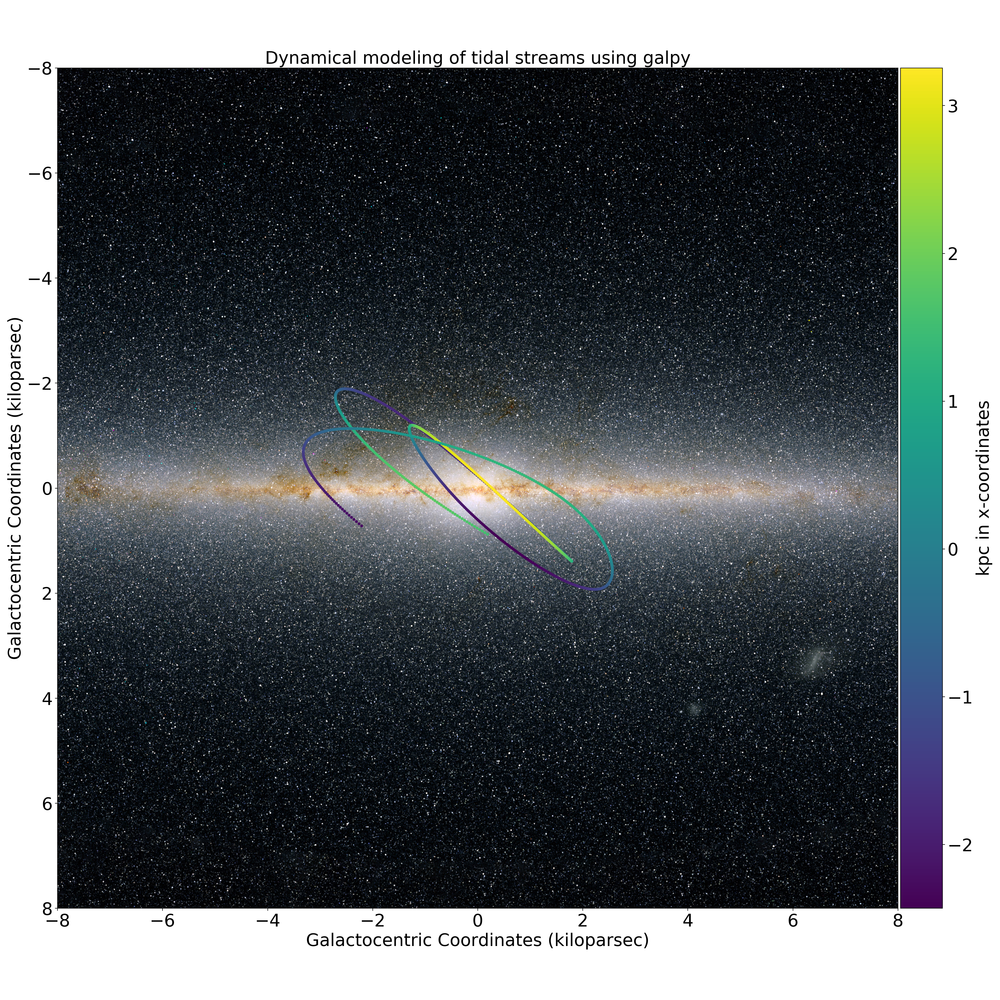
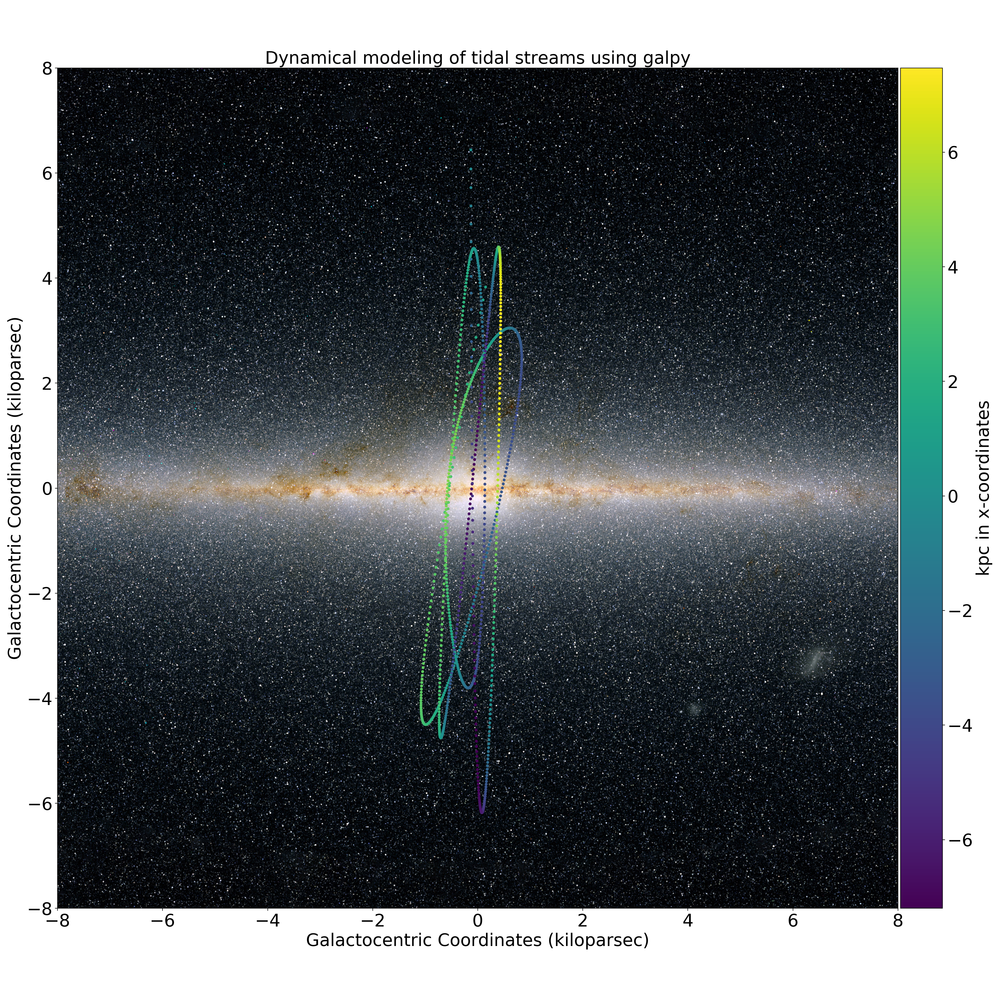
fix edge-on milkyway y-axis flipped

diff --git a/mw_plot/mw_plot.py b/mw_plot/mw_plot.py
@@ -166,6 +166,9 @@ class MWPlot:
         else:
             self.__ext = [(self.__center[0] - self.__radius - x_shift).value, (self.__center[0] + self.__radius - x_shift).value,
                    (self.__center[1] + self.__radius).value, (self.__center[1] - self.__radius).value]
+        if self.mode == 'edge-on':
+            self.__ext[2] *= -1
+            self.__ext[3] *= -1
 
         self.__img = img
         self.__aspect = img.shape[0] / float(img.shape[1]) * ((self.__ext[1] - self.__ext[0]) / (self.__ext[3] - self.__ext[2]))

diff --git a/README.rst b/README.rst
@@ -1,7 +1,7 @@
 mw_plot
 ========
 
-A handy python script to plot scatters (so far, will support more later) on a face-on milkyway using pylab.
+A handy python script to plot scatters (so far, will support more later) on a face-on/edge-on milkyway using pylab.
 You can set the center and radius of the plot anywhere on a milkyway galaxy image with galactic or galactocentric coordinates.
 
 Both ``MW_bg_annotate.jpg`` and ``MW_bg_unannotate.jpg`` are modified from an images by **NASA/JPL-Caltech/R. Hurt (SSC/Caltech)**
@@ -120,7 +120,7 @@ You can plot the orbit which are some scatter points on a edge-on milkyway
 
    # galpy tidal streams modeling
    aAI= actionAngleIsochroneApprox(pot=lp,b=0.8)
-   obs= Orbit([1.56148083,0.35081535,-1.15481504,0.88719443,-0.47713334,0.12019596])
+   obs= Orbit([0.16148083,0.35081535,-0.15481504,0.48719443,-0.27713334,0.12019596])
    sigv= 0.365 #km/s
    sdf=streamdf(sigv/220.,progenitor=obs,pot=lp,aA=aAI,leading=True,nTrackChunks=11,tdisrupt=100./bovy_conversion.time_in_Gyr(220.,8.))
 
@@ -182,7 +182,7 @@ You can turn off the annotation by putting ``annotation=False`` when creating an
 
 .. image:: https://github.com/henrysky/milkyway_plot/blob/master/readme_images/example_plot_1_unannotation.png?raw=true
 
-Example 3: Change the center and radius of the plot
+Example 3: Change the Center and Radius of the Plot
 ---------------------------------------------------------
 
 .. image:: https://github.com/henrysky/milkyway_plot/blob/master/readme_images/example_plot_2.png?raw=true
